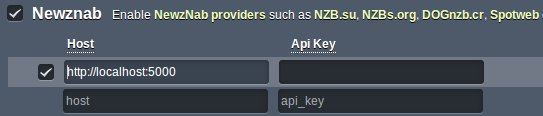
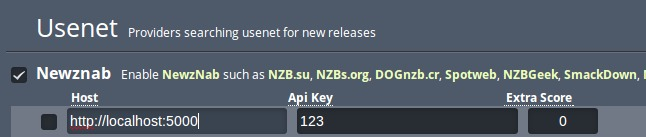
fixes in config

diff --git a/NZBmegasearch/templates/connectinfo.html b/NZBmegasearch/templates/connectinfo.html
@@ -15,10 +15,10 @@
 					<img src="static/sick_logo.png" width="" height="32" /></div>
 				
 				Sickbeard connectivity is always active.<br>	
-				In Sickbeard: go to Config/Search Providers and add a custom Newznab  provider, no apikey needed. <br>				
+				In Sickbeard: go to Config/Search Providers and add a custom Newznab  provider, no API key needed. <br>				
 				
 				</p>
-				<img src="static/cfg_cp_offline.jpg" width="" height="" /></div>
+				<img src="static/cfg_offline.jpg" width="" height="" /></div>
 				
 				<div  class="singleparagraph">
 				<p>
@@ -26,7 +26,10 @@
 					<img src="static/cp_logo.png" width="" height="32" /></div>
 				
 				Couchpotato connectivity is always active.<br>	
-				In Couchpotato: go to Settings/Providers and add a custom Newznab  provider, no apikey needed. <br>	 <br>				
+				In Couchpotato: go to Settings/Providers and add a custom Newznab provider with API key 123 (any key number will work). <br>
+				Below is an example of NZBMegasearcH configured with port 5000:
+					 <br>				
+				
 				</p>
 				
 				<img src="static/cfg_cp_offline.jpg" width="" height="" /></div>
